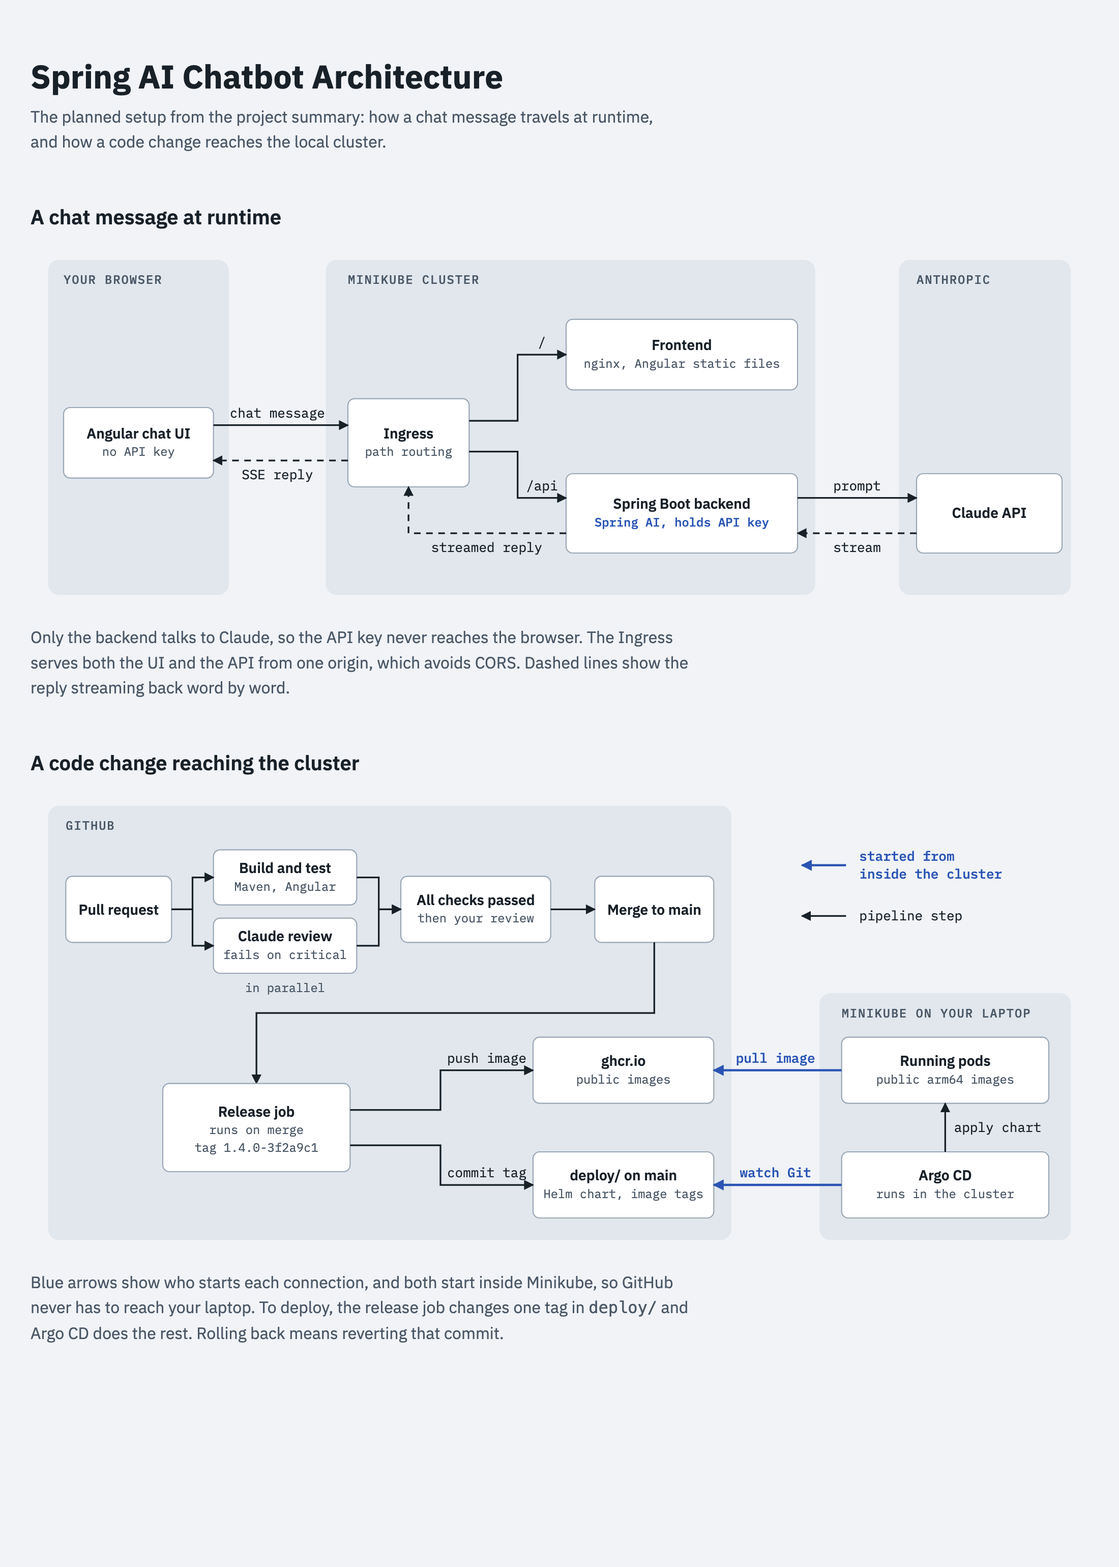
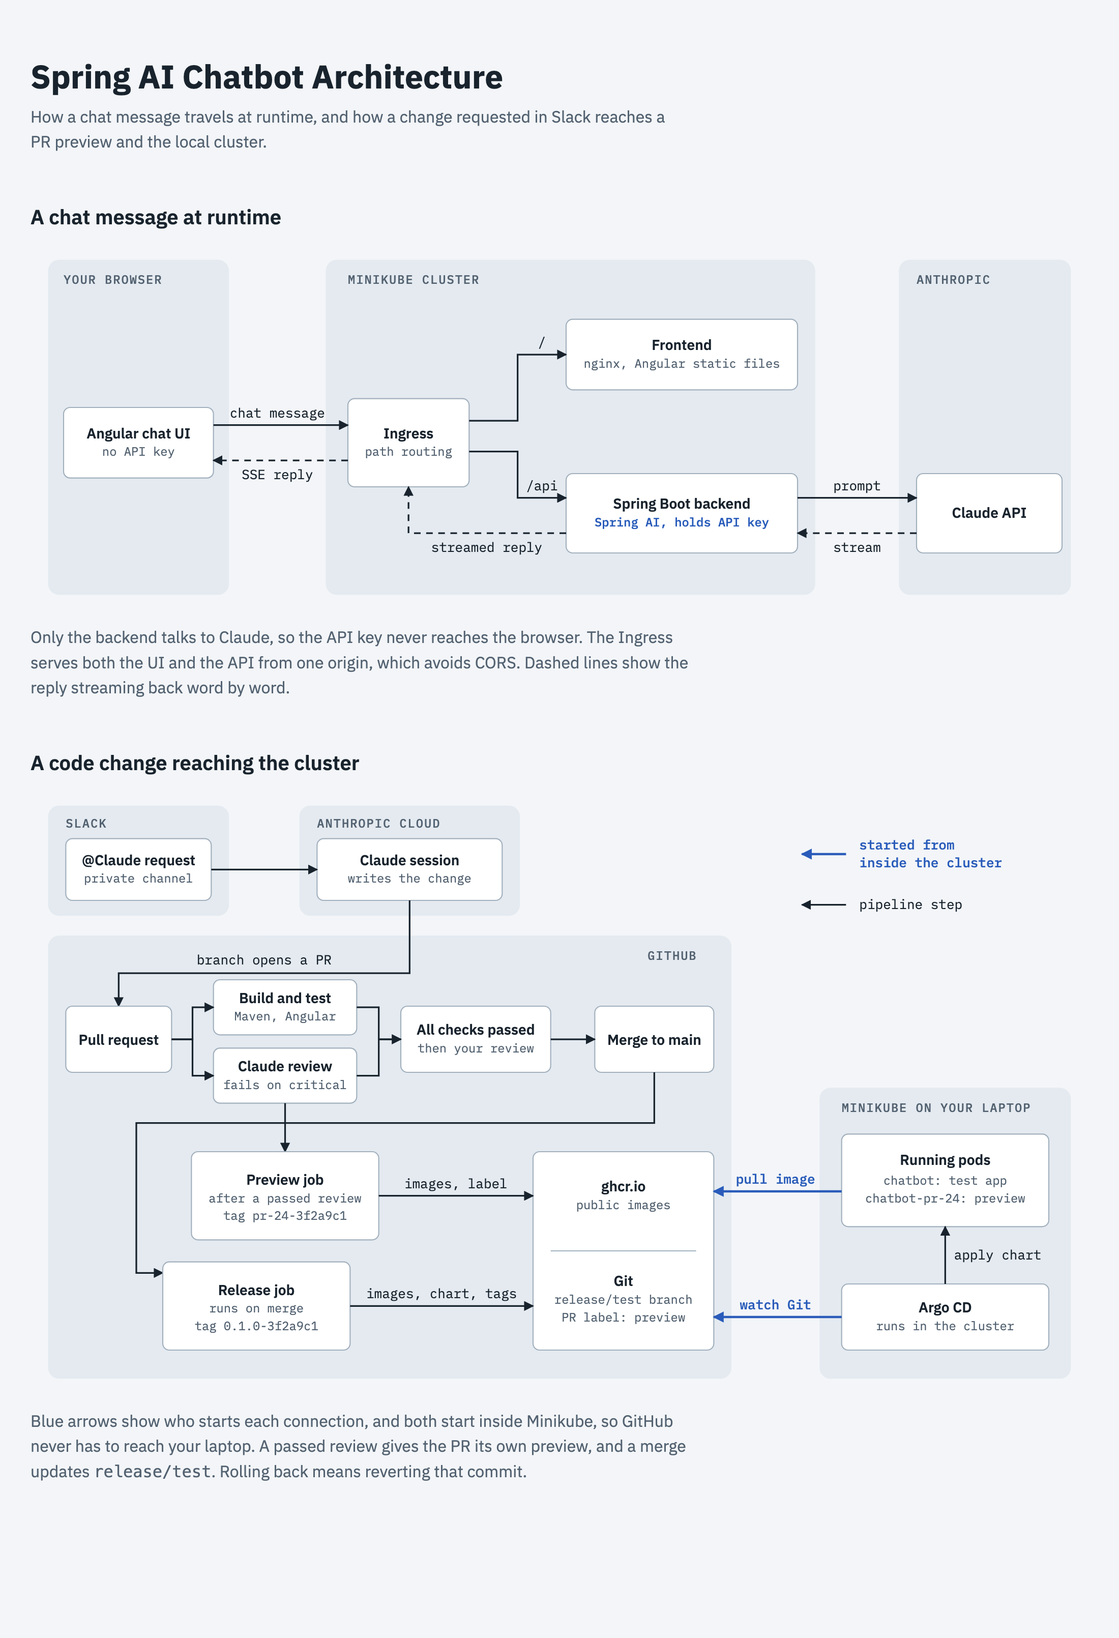
Bring the guide and architecture diagram up to date

diff --git a/architecture.html b/architecture.html
@@ -82,7 +82,7 @@
 <main>
   <header>
     <h1>Spring AI Chatbot Architecture</h1>
-    <p>The planned setup from the project summary: how a chat message travels at runtime, and how a code change reaches the local cluster.</p>
+    <p>How a chat message travels at runtime, and how a change requested in Slack reaches a PR preview and the local cluster.</p>
   </header>
 
   <section>
@@ -148,7 +148,7 @@
     <h2>A code change reaching the cluster</h2>
     <figure>
       <div class="scroll">
-        <svg viewBox="0 0 960 426" role="img" aria-label="A pull request runs build and Claude review checks in parallel, then merges to main after your review. A release job pushes the image to ghcr.io and commits the new tag to deploy/. Argo CD inside Minikube watches Git and applies the chart, and the pods pull the image, so every connection starts from inside the cluster.">
+        <svg viewBox="0 0 960 552" role="img" aria-label="A request to @Claude in Slack starts a Claude cloud session, which pushes a branch that opens a pull request. The PR runs build and Claude review checks. A passed review starts a preview job, and merging starts a release job. Both publish images and Git state, which Argo CD inside Minikube reads to deploy the previews and the test app, so every connection starts from inside the cluster.">
           <defs>
             <marker id="cd-arrow" viewBox="0 0 10 10" refX="9" refY="5" markerWidth="9" markerHeight="9" markerUnits="userSpaceOnUse" orient="auto">
               <path d="M0 0 L10 5 L0 10 Z" fill="currentColor"/>
@@ -158,79 +158,101 @@
             </marker>
           </defs>
 
-          <rect class="zone" x="16" y="16" width="620" height="394" rx="10"/>
-          <rect class="zone" x="716" y="186" width="228" height="224" rx="10"/>
-          <text class="zone-label" x="32" y="38">GITHUB</text>
-          <text class="zone-label" x="736" y="208">MINIKUBE ON YOUR LAPTOP</text>
+          <rect class="zone" x="16" y="16" width="164" height="100" rx="10"/>
+          <rect class="zone" x="244" y="16" width="200" height="100" rx="10"/>
+          <rect class="zone" x="16" y="134" width="620" height="402" rx="10"/>
+          <rect class="zone" x="716" y="272" width="228" height="264" rx="10"/>
+          <text class="zone-label" x="32" y="36">SLACK</text>
+          <text class="zone-label" x="260" y="36">ANTHROPIC CLOUD</text>
+          <text class="zone-label" x="560" y="156">GITHUB</text>
+          <text class="zone-label" x="736" y="294">MINIKUBE ON YOUR LAPTOP</text>
 
-          <path class="pull" d="M740 70 H700" marker-end="url(#cd-arrow-pull)"/>
-          <text class="label left pull-label" x="752" y="66">started from</text>
-          <text class="label left pull-label" x="752" y="82">inside the cluster</text>
-          <path class="edge" d="M740 116 H700" marker-end="url(#cd-arrow)"/>
-          <text class="label left" x="752" y="120">pipeline step</text>
+          <path class="pull" d="M740 60 H700" marker-end="url(#cd-arrow-pull)"/>
+          <text class="label left pull-label" x="752" y="56">started from</text>
+          <text class="label left pull-label" x="752" y="72">inside the cluster</text>
+          <path class="edge" d="M740 106 H700" marker-end="url(#cd-arrow)"/>
+          <text class="label left" x="752" y="110">pipeline step</text>
 
-          <rect class="box" x="32" y="80" width="96" height="60" rx="6"/>
-          <text class="title" x="80" y="115">Pull request</text>
+          <rect class="box" x="32" y="46" width="132" height="56" rx="6"/>
+          <text class="title" x="98" y="70">@Claude request</text>
+          <text class="sub" x="98" y="86">private channel</text>
 
-          <rect class="box" x="166" y="56" width="130" height="50" rx="6"/>
-          <text class="title" x="231" y="77">Build and test</text>
-          <text class="sub" x="231" y="93">Maven, Angular</text>
+          <rect class="box" x="260" y="46" width="168" height="56" rx="6"/>
+          <text class="title" x="344" y="70">Claude session</text>
+          <text class="sub" x="344" y="86">writes the change</text>
 
-          <rect class="box" x="166" y="118" width="130" height="50" rx="6"/>
-          <text class="title" x="231" y="139">Claude review</text>
-          <text class="sub" x="231" y="155">fails on critical</text>
-          <text class="note" x="231" y="185">in parallel</text>
+          <path class="edge" d="M164 74 H260" marker-end="url(#cd-arrow)"/>
+          <path class="edge" d="M344 102 V168 H80 V198" marker-end="url(#cd-arrow)"/>
+          <text class="label" x="212" y="160">branch opens a PR</text>
 
-          <rect class="box" x="336" y="80" width="136" height="60" rx="6"/>
-          <text class="title" x="404" y="106">All checks passed</text>
-          <text class="sub" x="404" y="122">then your review</text>
+          <rect class="box" x="32" y="198" width="96" height="60" rx="6"/>
+          <text class="title" x="80" y="233">Pull request</text>
 
-          <rect class="box" x="512" y="80" width="108" height="60" rx="6"/>
-          <text class="title" x="566" y="115">Merge to main</text>
+          <rect class="box" x="166" y="174" width="130" height="50" rx="6"/>
+          <text class="title" x="231" y="195">Build and test</text>
+          <text class="sub" x="231" y="211">Maven, Angular</text>
 
-          <path class="edge" d="M128 110 H147 V81 H166" marker-end="url(#cd-arrow)"/>
-          <path class="edge" d="M128 110 H147 V143 H166" marker-end="url(#cd-arrow)"/>
-          <path class="edge" d="M296 81 H316 V110 H336" marker-end="url(#cd-arrow)"/>
-          <path class="edge" d="M296 143 H316 V110 H336" marker-end="url(#cd-arrow)"/>
-          <path class="edge" d="M472 110 H512" marker-end="url(#cd-arrow)"/>
-          <path class="edge" d="M566 140 V204 H205 V268" marker-end="url(#cd-arrow)"/>
+          <rect class="box" x="166" y="236" width="130" height="50" rx="6"/>
+          <text class="title" x="231" y="257">Claude review</text>
+          <text class="sub" x="231" y="273">fails on critical</text>
 
-          <rect class="box" x="120" y="268" width="170" height="80" rx="6"/>
-          <text class="title" x="205" y="298">Release job</text>
-          <text class="sub" x="205" y="314">runs on merge</text>
-          <text class="sub" x="205" y="330">tag 1.4.0-3f2a9c1</text>
+          <rect class="box" x="336" y="198" width="136" height="60" rx="6"/>
+          <text class="title" x="404" y="224">All checks passed</text>
+          <text class="sub" x="404" y="240">then your review</text>
 
-          <rect class="box" x="456" y="226" width="164" height="60" rx="6"/>
-          <text class="title" x="538" y="252">ghcr.io</text>
-          <text class="sub" x="538" y="268">public images</text>
+          <rect class="box" x="512" y="198" width="108" height="60" rx="6"/>
+          <text class="title" x="566" y="233">Merge to main</text>
 
-          <rect class="box" x="456" y="330" width="164" height="60" rx="6"/>
-          <text class="title" x="538" y="356">deploy/ on main</text>
-          <text class="sub" x="538" y="372">Helm chart, image tags</text>
+          <path class="edge" d="M128 228 H147 V199 H166" marker-end="url(#cd-arrow)"/>
+          <path class="edge" d="M128 228 H147 V261 H166" marker-end="url(#cd-arrow)"/>
+          <path class="edge" d="M296 199 H316 V228 H336" marker-end="url(#cd-arrow)"/>
+          <path class="edge" d="M296 261 H316 V228 H336" marker-end="url(#cd-arrow)"/>
+          <path class="edge" d="M472 228 H512" marker-end="url(#cd-arrow)"/>
+          <path class="edge" d="M231 286 V330" marker-end="url(#cd-arrow)"/>
+          <path class="edge" d="M566 258 V304 H96 V440 H120" marker-end="url(#cd-arrow)"/>
 
-          <path class="edge" d="M290 292 H372 V256 H456" marker-end="url(#cd-arrow)"/>
-          <text class="label" x="414" y="249">push image</text>
-          <path class="edge" d="M290 324 H372 V360 H456" marker-end="url(#cd-arrow)"/>
-          <text class="label" x="414" y="353">commit tag</text>
+          <rect class="box" x="146" y="330" width="170" height="80" rx="6"/>
+          <text class="title" x="231" y="360">Preview job</text>
+          <text class="sub" x="231" y="376">after a passed review</text>
+          <text class="sub" x="231" y="392">tag pr-24-3f2a9c1</text>
 
-          <rect class="box" x="736" y="226" width="188" height="60" rx="6"/>
-          <text class="title" x="830" y="252">Running pods</text>
-          <text class="sub" x="830" y="268">public arm64 images</text>
+          <rect class="box" x="120" y="430" width="170" height="80" rx="6"/>
+          <text class="title" x="205" y="460">Release job</text>
+          <text class="sub" x="205" y="476">runs on merge</text>
+          <text class="sub" x="205" y="492">tag 0.1.0-3f2a9c1</text>
 
-          <rect class="box" x="736" y="330" width="188" height="60" rx="6"/>
-          <text class="title" x="830" y="356">Argo CD</text>
-          <text class="sub" x="830" y="372">runs in the cluster</text>
+          <rect class="box" x="456" y="330" width="164" height="180" rx="6"/>
+          <text class="title" x="538" y="366">ghcr.io</text>
+          <text class="sub" x="538" y="382">public images</text>
+          <path class="edge" d="M472 420 H604" style="stroke:var(--line);stroke-width:1"/>
+          <text class="title" x="538" y="452">Git</text>
+          <text class="sub" x="538" y="468">release/test branch</text>
+          <text class="sub" x="538" y="484">PR label: preview</text>
 
-          <path class="pull" d="M736 256 H620" marker-end="url(#cd-arrow-pull)"/>
-          <text class="label pull-label" x="676" y="249">pull image</text>
-          <path class="pull" d="M736 360 H620" marker-end="url(#cd-arrow-pull)"/>
-          <text class="label pull-label" x="676" y="353">watch Git</text>
+          <path class="edge" d="M316 370 H456" marker-end="url(#cd-arrow)"/>
+          <text class="label" x="386" y="363">images, label</text>
+          <path class="edge" d="M290 470 H456" marker-end="url(#cd-arrow)"/>
+          <text class="label" x="373" y="463">images, chart, tags</text>
 
-          <path class="edge" d="M830 330 V286" marker-end="url(#cd-arrow)"/>
-          <text class="label left" x="838" y="312">apply chart</text>
+          <rect class="box" x="736" y="314" width="188" height="84" rx="6"/>
+          <text class="title" x="830" y="342">Running pods</text>
+          <text class="sub" x="830" y="360">chatbot: test app</text>
+          <text class="sub" x="830" y="376">chatbot-pr-24: preview</text>
+
+          <rect class="box" x="736" y="450" width="188" height="60" rx="6"/>
+          <text class="title" x="830" y="476">Argo CD</text>
+          <text class="sub" x="830" y="492">runs in the cluster</text>
+
+          <path class="pull" d="M736 366 H620" marker-end="url(#cd-arrow-pull)"/>
+          <text class="label pull-label" x="676" y="359">pull image</text>
+          <path class="pull" d="M736 480 H620" marker-end="url(#cd-arrow-pull)"/>
+          <text class="label pull-label" x="676" y="473">watch Git</text>
+
+          <path class="edge" d="M830 450 V398" marker-end="url(#cd-arrow)"/>
+          <text class="label left" x="838" y="428">apply chart</text>
         </svg>
       </div>
-      <figcaption>Blue arrows show who starts each connection, and both start inside Minikube, so GitHub never has to reach your laptop. To deploy, the release job changes one tag in <code>deploy/</code> and Argo CD does the rest. Rolling back means reverting that commit.</figcaption>
+      <figcaption>Blue arrows show who starts each connection, and both start inside Minikube, so GitHub never has to reach your laptop. A passed review gives the PR its own preview, and a merge updates <code>release/test</code>. Rolling back means reverting that commit.</figcaption>
     </figure>
   </section>
 </main>

diff --git a/how-it-works.md b/how-it-works.md
@@ -1,6 +1,6 @@
 # How the Chatbot Works
 
-This document explains the whole project: both apps, the cluster, the pipelines, and how Claude is built into them. It describes the state of `main` on 30 October 2026.
+This document explains the whole project: both apps, the cluster, the pipelines, and how Claude is built into them. It describes the state of `main` on 1 November 2026.
 
 ## Contents
 
@@ -38,11 +38,17 @@ flowchart LR
         FE["Frontend: nginx"]
         BE["Backend: Spring Boot"]
         ARGO["Argo CD"]
+        PREV["PR previews"]
     end
     subgraph GitHub
-        REPO["Repo: main"]
+        REPO["Repo: main and PRs"]
         ACTIONS["GitHub Actions"]
+        REL["release/test"]
         GHCR["GHCR images"]
+    end
+    subgraph Requests
+        SLACK["Slack: @Claude"]
+        SESSION["Claude cloud session"]
     end
     CLAUDE["Claude API"]
 
@@ -52,9 +58,13 @@ flowchart LR
     BE -->|"prompt"| CLAUDE
     REPO -->|"PR or merge"| ACTIONS
     ACTIONS -->|"push image"| GHCR
-    ACTIONS -->|"commit tag"| REPO
-    ARGO -->|"watches"| REPO
+    ACTIONS -->|"commit chart and tags"| REL
+    ARGO -->|"watches"| REL
+    ARGO -->|"watches labelled PRs"| REPO
+    ARGO -->|"deploys"| PREV
     BE -.->|"image pulled from"| GHCR
+    SLACK -->|"request"| SESSION
+    SESSION -->|"push branch"| REPO
 ```
 
 | Part | Technology | Version |
@@ -64,7 +74,7 @@ flowchart LR
 | Packaging | Docker, Helm | arm64 images |
 | Cluster | Minikube on a Mac (Docker driver) | Kubernetes 1.37 |
 | Deployment | Argo CD | v3.5.6 |
-| Pipelines | GitHub Actions | `ci.yml`, `release.yml` |
+| Pipelines | GitHub Actions | `ci.yml`, `release.yml`, `notify.yml`, `auto-pr.yml`, `preview-cleanup.yml` |
 | Image registry | GitHub Container Registry (GHCR) | Public images |
 | AI | Claude API and Claude Code action | See section 9 |
 
@@ -76,11 +86,16 @@ Everything lives in one public repo: [mattuttis/chatbot](https://github.com/matt
 chatbot/
 ├── .github/workflows/
 │   ├── ci.yml                 Runs on every PR
-│   └── release.yml            Runs on merges that change the apps
+│   ├── release.yml            Runs on merges that change the apps
+│   ├── notify.yml             Posts PR events to Slack
+│   ├── auto-pr.yml            Opens PRs for Claude's Slack branches
+│   └── preview-cleanup.yml    Deletes a closed PR's images
 ├── backend/                   Spring Boot service
 ├── frontend/                  Angular app
 ├── deploy/
 │   ├── argocd/application.yaml   Tells Argo CD what to deploy
+│   ├── argocd/previews.yaml      Creates a preview for each labelled PR
+│   ├── argocd/reflector.yaml     Copies the API key Secret to previews
 │   ├── chart/                    Helm chart for both apps
 │   └── envs/test/values.yaml     Image tags, only on the release/test branch
 ├── AI Chatbots, ... Summary.md   Decisions and the implementation plan
@@ -271,6 +286,8 @@ flowchart LR
     CH -->|"code, deploy/ or .github/ changed"| CR["claude-review"]
     CR -->|"critical, first time"| FIX["claude-fix"]
     CR -->|"critical, already tried"| STOP["claude-fix-stopped"]
+    CR -->|"passed, app or chart changed"| PV["preview"]
+    PV -->|"preview label"| ARGO["Argo CD deploys the PR"]
     BB --> ALL["all-checks-passed"]
     FB --> ALL
     CR --> ALL
@@ -409,9 +426,11 @@ flowchart TD
     subgraph CIFLOW["Delivery: the pipeline"]
         REV["claude-review"] -->|"OAuth token"| CC["Claude Code action"]
         FIX["claude-fix"] -->|"OAuth token and GitHub App"| CC
+        SLACK["@Claude in Slack"] -->|"your Claude account"| CS["Cloud session"]
     end
     API --> BILL1["Pay per use, prepaid credit"]
     CC --> BILL2["Claude Pro limits"]
+    CS --> BILL2
 ```
 
 | | Chatbot | CI review and auto-fix |
@@ -517,6 +536,9 @@ No secret lives in Git or in an image.
 | Claude's fix goes wrong | One attempt, your approval to run CI, and your Merge click |
 | A release breaks the app | The new pod must pass its checks, or the old one keeps serving, and rollback is a revert |
 | The API key leaks | It's outside Git and images, and the budget is prepaid |
+| A stranger's PR gets a preview | Fork PRs skip the review, so they never get images or the `preview` label |
+| Unreviewed code stays in a preview | A new push drops the label, so the preview goes until the next passed review |
+| A Slack message starts unwanted work | Claude only works in a private channel, and its branch still needs a PR, a review and your Merge |
 
 **Nothing merges automatically.** Auto-merge is off. Every commit on `main` comes through a PR. `release/test` isn't protected, so anyone with write access could push to it, and today that's only you and the pipeline.
 
@@ -530,7 +552,9 @@ Read any change under `.github/` carefully, because workflows are what can use y
 | Public images on GHCR | Free |
 | Minikube, Helm, Argo CD | Free |
 | Claude reviews and fixes | Included in Pro, and they count against your limits |
-| Chatbot messages | Your API credit |
+| Chatbot messages, including chats in a preview | Your API credit |
+| `@Claude` requests from Slack | Included in Pro, and they count against your limits |
+| Slack workspace | Free plan |
 
 Opus costs $4 per million input tokens and $20 per million output tokens. `claude-haiku-5-5` costs far less, and you can switch to it in `application.yml`. Check that auto-reload is off in console.anthropic.com, so the prepaid credit stays the limit.
 
@@ -548,9 +572,12 @@ These problems are the most useful part of the day, and good material for an int
 | First auto-fix did nothing | No allowed tool could delete a file | Add `git rm` | Allowed tools limit what Claude can do |
 | Review stopped on a fix commit | The commit came from `github-actions`, which wasn't an allowed bot (`Workflow initiated by non-human actor`) | Add it to `allowed_bots` | Check which identity a commit really uses |
 | Fix job reported success with no commit | A denied action doesn't fail the job | A step that checks a commit was pushed | A green job doesn't prove the work happened |
-| New pod failed briefly | Chart arrived before its image | Accepted for test, see section 16 | Chart and image can arrive at different times |
+| New pod failed briefly | Chart arrived before its image | The `release/test` branch delivers both in one commit | Chart and image can arrive at different times |
 | Rollback plan wouldn't work | The old image had no health endpoint | Roll back to a newer image | A chart change can make old images unusable |
 | First startup check did nothing | An unresolved placeholder doesn't stop Spring | Explicit check in code, then tested by hand | Run the failure case, not just the tests |
+| `@Claude` didn't appear in Slack | The app was deactivated in a shared workspace, and only its admins could fix that | A workspace you own | Check who administers a tool before debugging it |
+| Slack request stopped before the PR | The cloud session can push a branch but didn't open a PR, even when asked | `auto-pr.yml` opens it | Automate the step around a limit |
+| A reused image could be deleted | It shares a GHCR version with a release tag | Delete only versions with `pr-` tags alone | Check what else points at something before removing it |
 
 ## 14. Commands you'll need
 
@@ -638,6 +665,8 @@ flowchart LR
     S4 --> S5["5 Cluster"]
     S5 --> S6["6 Frontend"]
     S6 --> S7["7 Auto-fix"]
+    S7 --> S8["8 Slack"]
+    S8 --> S9["9 Previews"]
 ```
 
 ### Stage 0: Prepare
@@ -844,6 +873,60 @@ gh label create claude-fix -R <your-user>/chatbot --color 0f5cc0
 
 **You've arrived when** Claude's fix commit appears on the PR, and the second bug produces the "fix them by hand" comment.
 
+### Stage 8: Slack
+
+1. Create a Slack workspace you own, with a private channel. A shared workspace may need an admin for every step below.
+2. Create an incoming webhook for that channel, and store its URL without pasting it in chat:
+
+```bash
+pbpaste | tr -d '[:space:]' | gh secret set SLACK_WEBHOOK_URL -R <your-user>/chatbot
+```
+
+3. Add `notify.yml`, and `notify-review` to `ci.yml`.
+4. Add the Claude app from the Slack Marketplace. In its Home tab, click **Connect** and set **Routing Mode** to **Code only**.
+5. Connect GitHub and your repo at [claude.ai/code](https://claude.ai/code), then run `/invite @Claude` in the channel.
+6. Create a fine-grained GitHub token for this repo only, with **Pull requests: Read and write**, and store it as the `AUTO_PR_TOKEN` secret.
+7. Add `auto-pr.yml`, and merge it through a PR.
+8. Test it with `@Claude` and a small change.
+
+**You've arrived when** your request becomes a PR without a click, and its progress appears in Slack.
+
+### Stage 9: Previews
+
+1. Create the label:
+
+```bash
+gh label create preview -R <your-user>/chatbot --color 0e8a16
+```
+
+2. Add `ingress.host` and `namespace.create` to the chart, then `preview` and `preview-reset` to `ci.yml`, and `preview-cleanup.yml`. Merge them through a PR.
+3. Create a fine-grained GitHub token for this repo only, with **Pull requests: Read-only**, and store it in the cluster:
+
+```bash
+pbpaste | tr -d '[:space:]' | xargs -I{} kubectl -n argocd create secret generic github-pr-token --from-literal=token={}
+```
+
+4. Install Reflector, then allow it to copy the key Secret:
+
+```bash
+kubectl apply -f deploy/argocd/reflector.yaml
+kubectl -n chatbot annotate secret chatbot-claude \
+  reflector.v1.k8s.emberstack.com/reflection-allowed=true \
+  'reflector.v1.k8s.emberstack.com/reflection-allowed-namespaces=chatbot-pr-[0-9]+' \
+  reflector.v1.k8s.emberstack.com/reflection-auto-enabled=true \
+  'reflector.v1.k8s.emberstack.com/reflection-auto-namespaces=chatbot-pr-[0-9]+'
+```
+
+5. Start the previews:
+
+```bash
+kubectl apply -f deploy/argocd/previews.yaml
+```
+
+6. Open a test PR that changes the frontend. After the review, open `http://pr-<number>.localhost:8088`, then close the PR.
+
+**You've arrived when** the preview shows your change, and its namespace and images disappear after you close the PR.
+
 ## 16. Known gaps
 
 **Before going public**
@@ -860,9 +943,17 @@ gh label create claude-fix -R <your-user>/chatbot --color 0f5cc0
 **Cluster state**
 
 - The backend runs `0.1.0-d40564c` after the rollback test, so the `Chat client ready` log line on `main` isn't deployed yet. The next backend merge moves it forward.
-- The frontend runs `0.1.0-2e78a63` after the demo rollback, so the page says "Chatbot", while `main` says "Software Factory". The next frontend merge moves it forward.
+- Pipeline messages go to `#chatbot-dev` in the DevOps20 workspace, while `@Claude` requests use `#chatbot-test` in `inetcontrol`. A new webhook and a `SLACK_WEBHOOK_URL` update would move the messages.
+
+**Previews**
+
+- Previews use Argo CD's broad `default` project. A team should give them a restricted project.
+- A preview with a backend change hasn't been tested yet.
+- A reused image keeps its `pr-` tag after cleanup, because it's shared with a release.
 
 **Housekeeping**
 
 - Renew `CLAUDE_CODE_OAUTH_TOKEN` within a year.
+- Renew `AUTO_PR_TOKEN` and `github-pr-token` before they expire, after 90 days. When they expire, PRs stop opening automatically and previews stop appearing.
+- `ci-pipeline.png` and `ci-pipeline.html` predate the Slack and preview jobs.
 - Tidy the summary doc's wording: "master", "API key or token" and the `minikube tunnel` advice.
